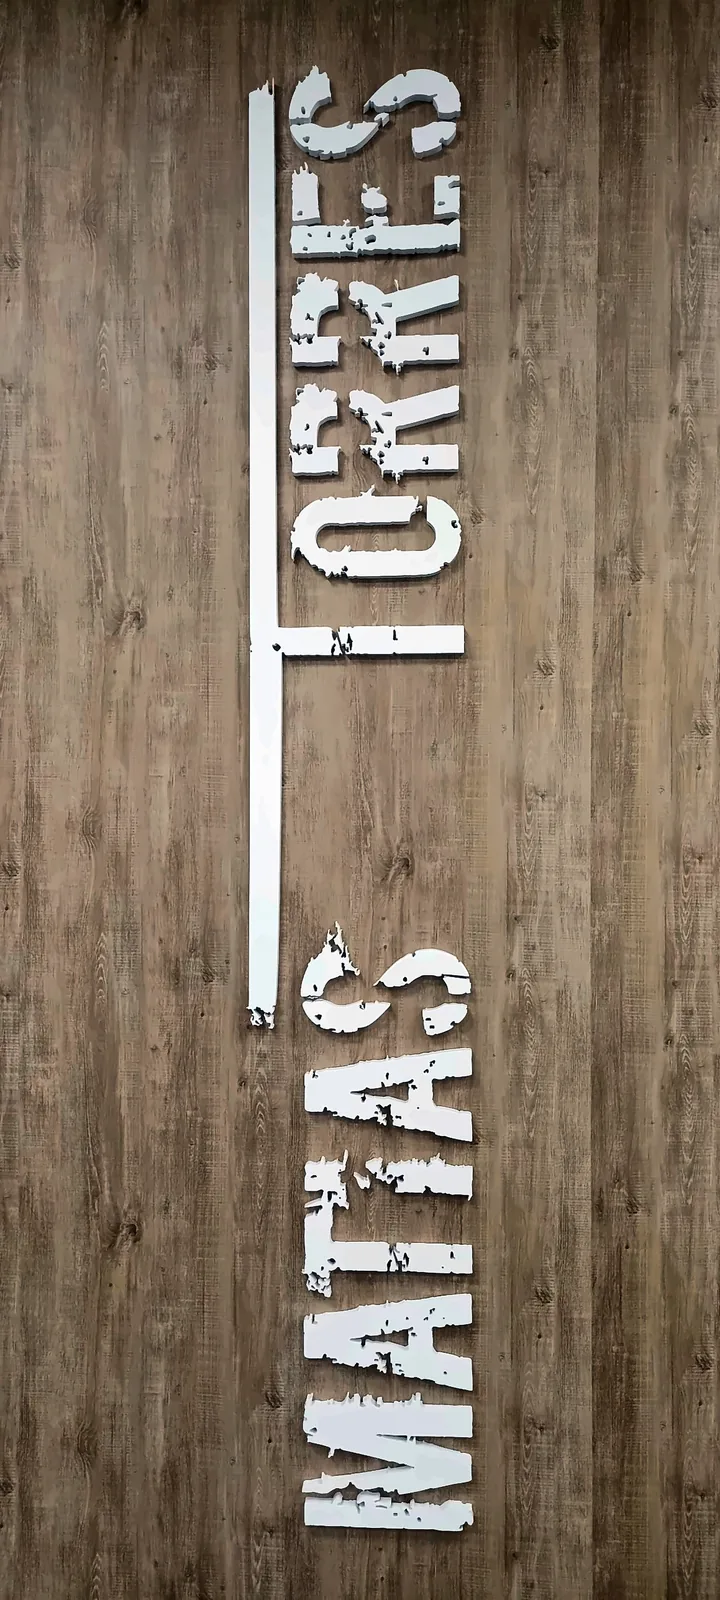
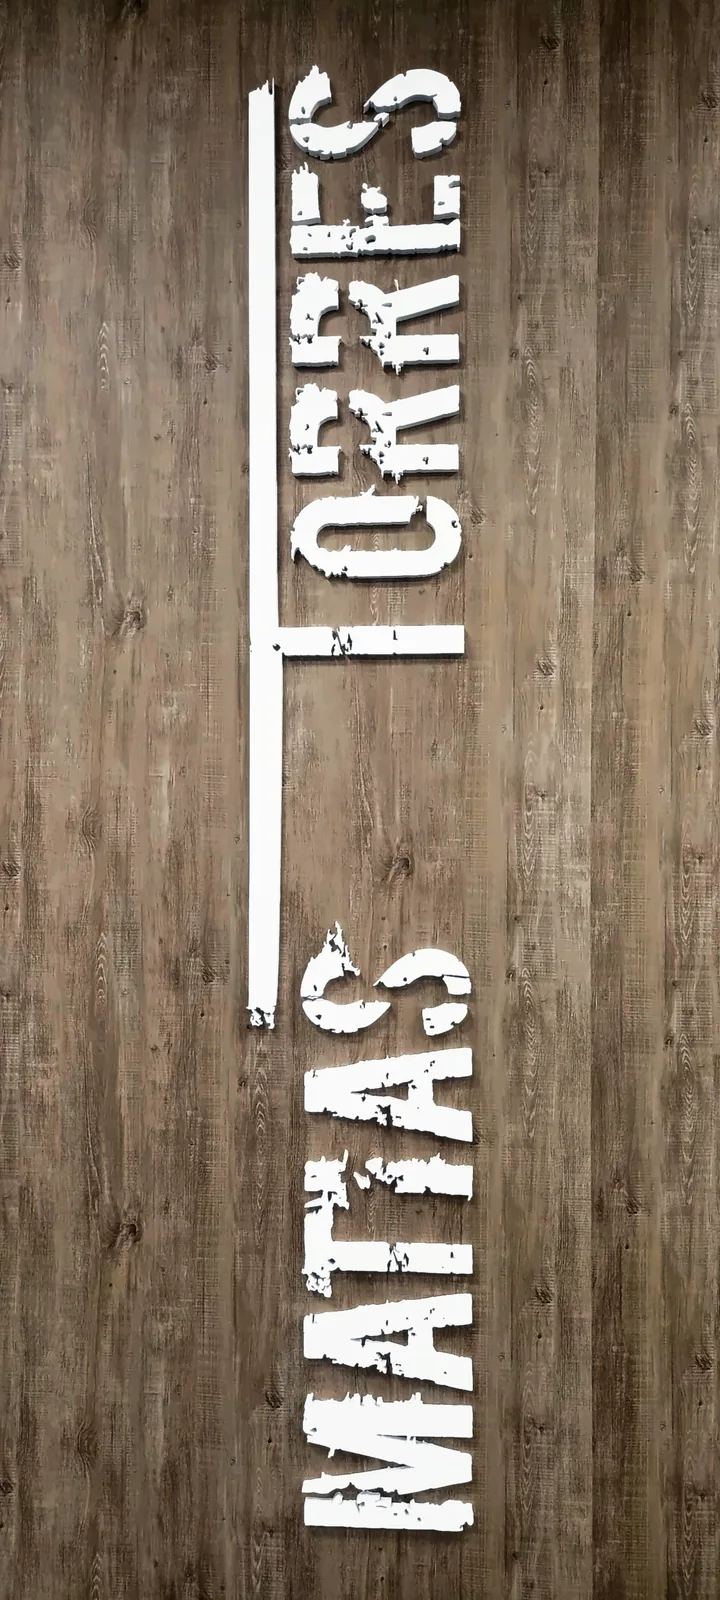
Pared de madera: nombre en blanco más luminoso
Claude-Session: https://claude.ai/code/session_01NkzjF2prr94Vio7bqkNGao

diff --git a/index.html b/index.html
@@ -1359,7 +1359,7 @@ html,body{overflow-x:clip}
     </div>
     </div>
     <figure class="ce-pared" data-lb>
-      <img src="fotos/pared-madera.webp?v=1" srcset="fotos/pared-madera-m.webp?v=1 720w, fotos/pared-madera.webp?v=1 1200w" sizes="(max-width:900px) 72vw, 42vw" width="1200" height="2667" alt="Pared de madera natural de la sala con el nombre MATÍAS TORRES en letras blancas en relieve, en vertical" loading="lazy" decoding="async">
+      <img src="fotos/pared-madera.webp?v=2" srcset="fotos/pared-madera-m.webp?v=2 720w, fotos/pared-madera.webp?v=2 1200w" sizes="(max-width:900px) 72vw, 42vw" width="1200" height="2667" alt="Pared de madera natural de la sala con el nombre MATÍAS TORRES en letras blancas en relieve, en vertical" loading="lazy" decoding="async">
       <figcaption><span>El photocall</span>Tu foto del primer día. Y la del día que lo consigues.</figcaption>
     </figure>
     </div>
@@ -3213,7 +3213,7 @@ window.addEventListener('load',eq);window.addEventListener('resize',eq);window.a
   background:radial-gradient(closest-side,rgba(196,150,96,.16),rgba(196,150,96,.05) 55%,transparent 100%)}
 #centro .ce-pared img{display:block;width:100%;height:auto;aspect-ratio:1200/2667;object-fit:cover;
   transform:scale(var(--ce-z,1.06));transform-origin:58% 50%;will-change:transform;
-  filter:brightness(.94) contrast(1.03) saturate(.96);
+  filter:contrast(1.04);
   -webkit-mask-image:linear-gradient(90deg,transparent 0,rgba(0,0,0,.55) 9%,#000 22%,#000 84%,rgba(0,0,0,.6) 94%,transparent 100%),linear-gradient(180deg,transparent 0,rgba(0,0,0,.6) 5%,#000 12%,#000 86%,rgba(0,0,0,.55) 94%,transparent 100%);
   -webkit-mask-composite:source-in;
   mask-image:linear-gradient(90deg,transparent 0,rgba(0,0,0,.55) 9%,#000 22%,#000 84%,rgba(0,0,0,.6) 94%,transparent 100%),linear-gradient(180deg,transparent 0,rgba(0,0,0,.6) 5%,#000 12%,#000 86%,rgba(0,0,0,.55) 94%,transparent 100%);
